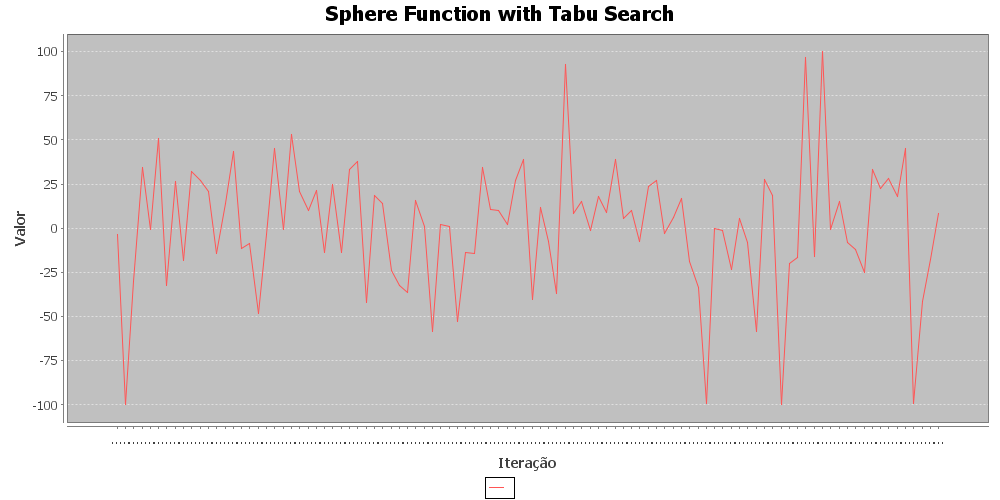
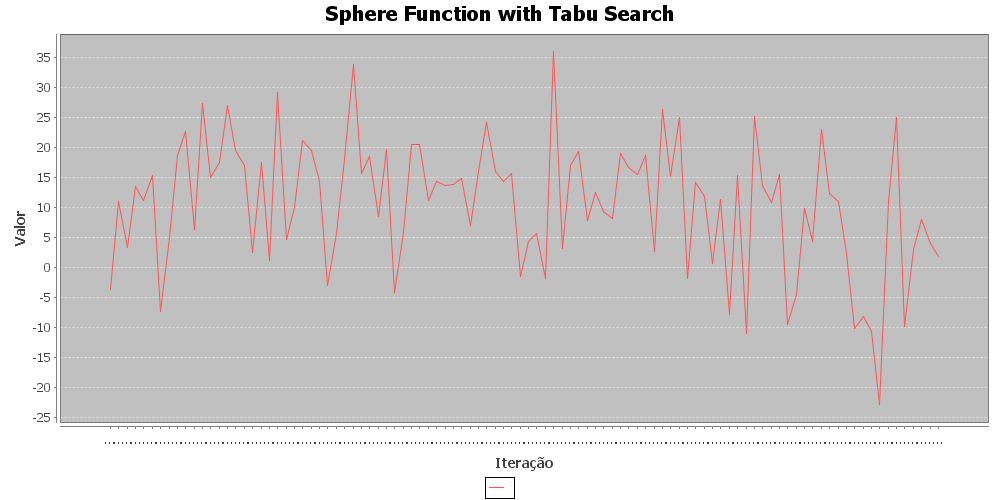
Alteração no busca tabu.

diff --git a/AlgoritmosHeuristicos/src/Main.java b/AlgoritmosHeuristicos/src/Main.java
@@ -35,16 +35,24 @@ public class Main {
 					double[] s = simulatedAnnealing.execute(1);
 					plotarGrafico(s, "Sphere Function with Simulated Annealing");
 				}else if(algorithm == 3) {
-					BuscaTabu tabu = new BuscaTabu(100,0.1,-100,100,5,100,10000);
+					BuscaTabu tabu = new BuscaTabu(100,0.1,-100,100,5,10,100,5);
 					double[] s = tabu.execute(1);
 					plotarGrafico(s, "Sphere Function with Tabu Search");
 				}
 				
 			}else if(benchmark == 2) {
 				if(algorithm == 1) {
-					
+					HillClimbing climbing = new HillClimbing(100, 0.1, -100, 100,5, 100000);
+					double[] s = climbing.execute(2);
+					plotarGrafico(s, "SchwefelsProblem with Hill Climbing");
 				}else if(algorithm == 2) {
-					
+					SimulatedAnnealing simulatedAnnealing = new SimulatedAnnealing(100, 0.1, 100, -100, 100, 100);;
+					double[] s = simulatedAnnealing.execute(2);
+					plotarGrafico(s, "SchwefelsProblem with Simulated Annealing");
+				}else if(algorithm == 3) {
+					BuscaTabu tabu = new BuscaTabu(100,0.1,-100,100,5,10,100,5);
+					double[] s = tabu.execute(2);
+					plotarGrafico(s, "SchwefelsProblem with Tabu Search");
 				}
 			}
 		} while (JOptionPane.showConfirmDialog(null, "Deseja Continuar?") == 0);

diff --git a/AlgoritmosHeuristicos/src/br/ufs/algorithm/BuscaTabu.java b/AlgoritmosHeuristicos/src/br/ufs/algorithm/BuscaTabu.java
@@ -9,12 +9,15 @@ public class BuscaTabu extends BaseAlgorithm {
 	private int lengthTabu;
 	//Numero de Tweak Desejado
 	
-	private int iteration;
+	private int iterations;
 	
-	public BuscaTabu(int lengthArray, double p, int min, int max, int range, int lengthTabu, int iterations) {
+	private int nTweaks;
+	
+	public BuscaTabu(int lengthArray, double p, int min, int max, int range, int lengthTabu, int iterations, int nTweaks) {
 		super(lengthArray, p, min,max,range);
 		this.lengthTabu = lengthTabu;
-		this.iteration = iterations;
+		this.iterations = iterations;
+		this.nTweaks = nTweaks;
 		
 	}
 	
@@ -26,14 +29,14 @@ public class BuscaTabu extends BaseAlgorithm {
 		
 		int count = 0;
 		
-		while (count++ < lengthTabu) {
+		while (count++ < iterations) {
 		
 			if (tabu.size() > lengthTabu)
 				tabu.remove();
 			
 			double[] R = tweak(copy(S));
 			
-			for (int i = 0; i < iteration; i++) {
+			for (int i = 0; i < nTweaks; i++) {
 				double[] W = tweak(copy(S));
 				
 				if (!tabu.contains(quality(W,option)) && (quality(W,option) > quality(R,option)) || tabu.contains(quality(R,option)))
